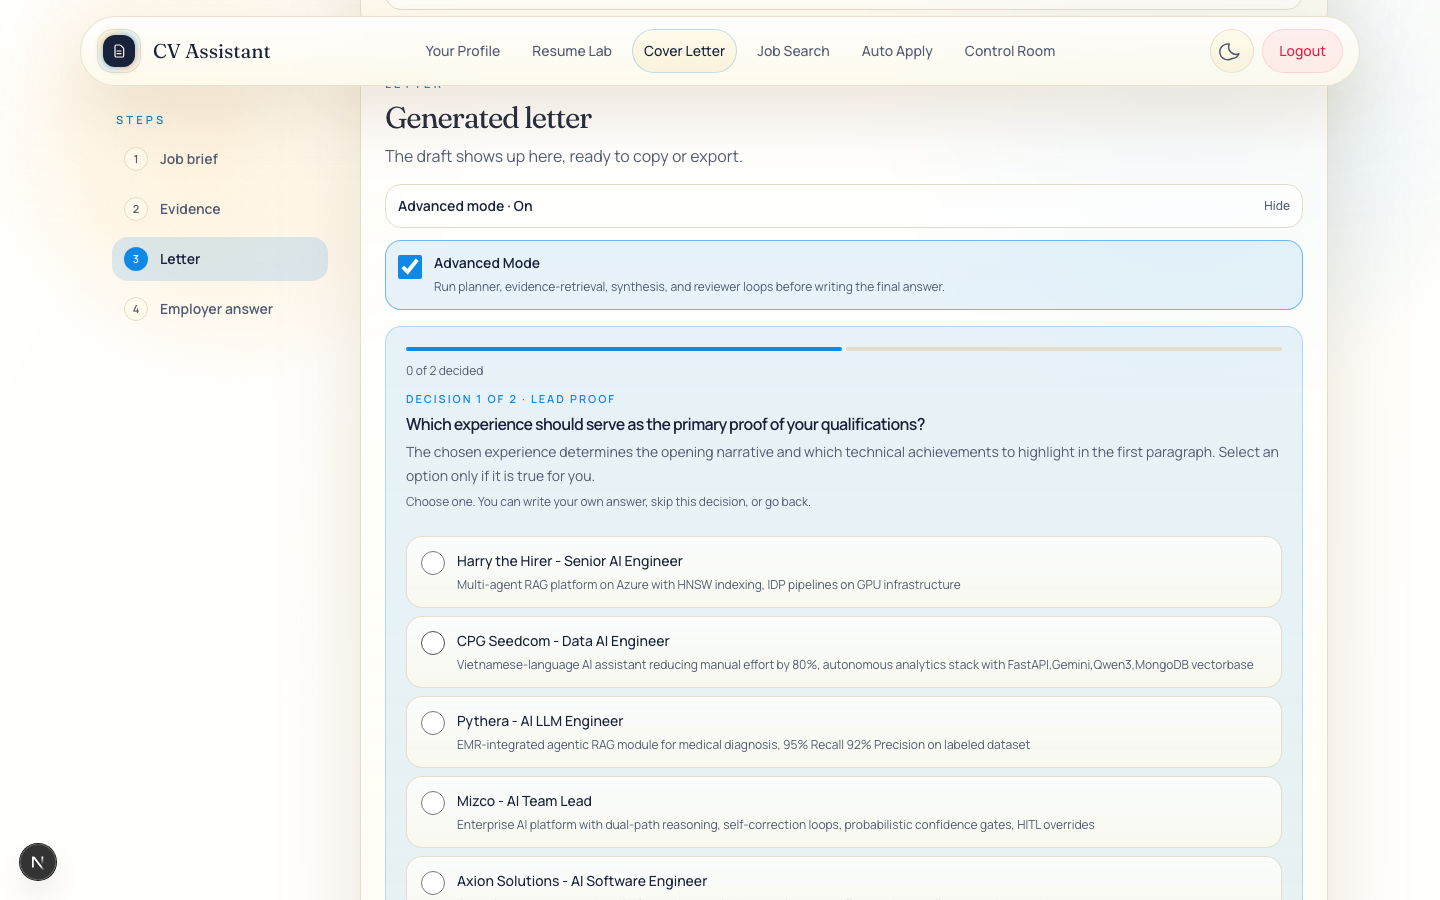
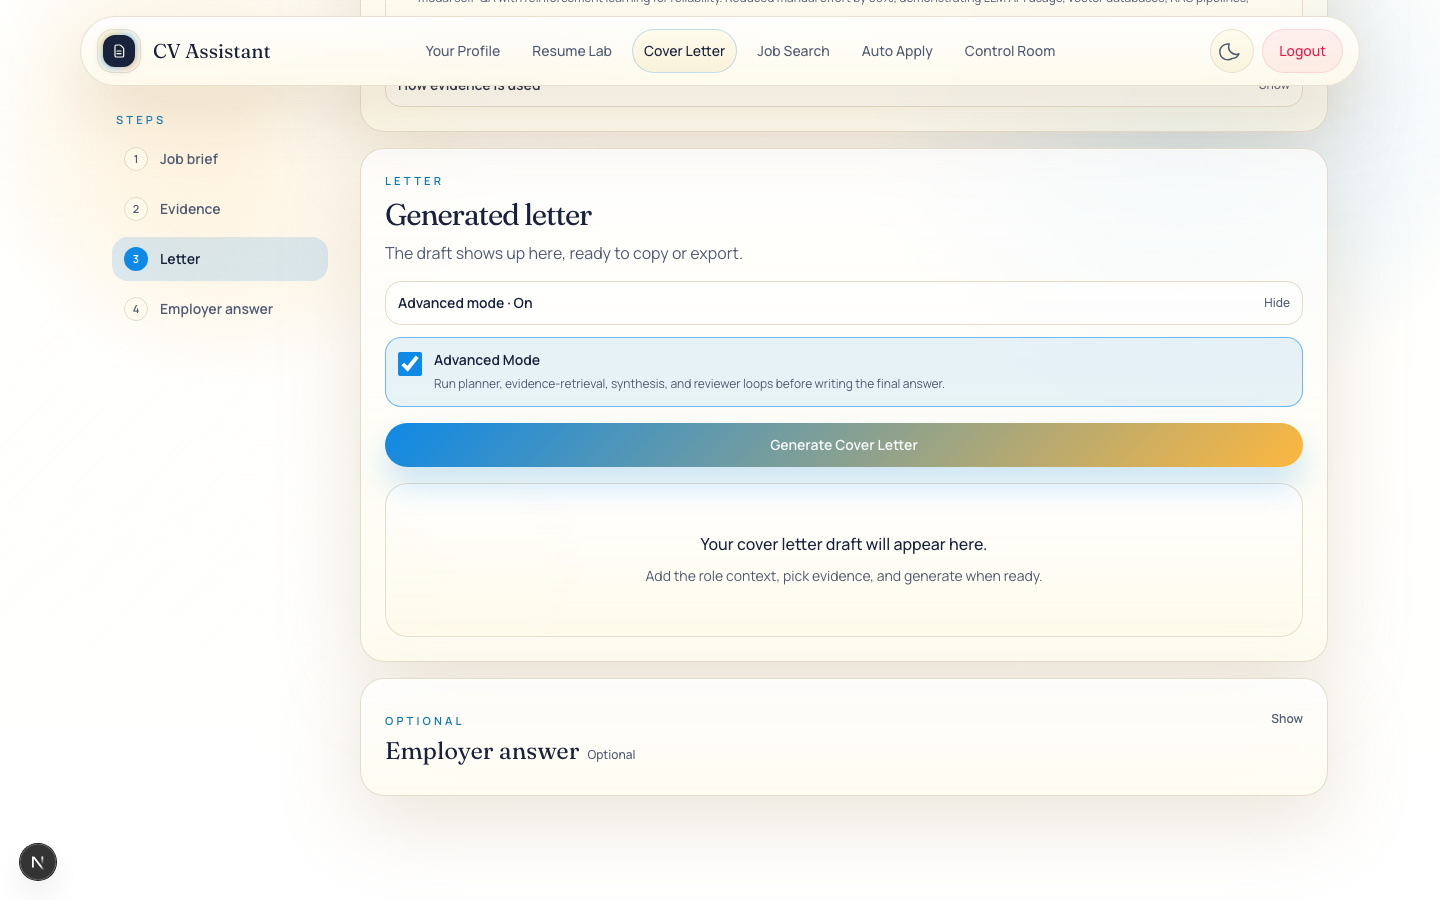
Record further live runs: eval rerun, Advanced Mode failure, prepare stop
Adds the Control Room specialist workflow result, the second eval run
(3 of 3 passed after 1 of 3 earlier, so results vary between runs), the
Advanced Mode run that returned 504 without producing a letter, and a
two-application Auto Apply prepare run that stopped early and could not
be resumed from the page. Failed attempts are recorded as failures.

diff --git a/cv-assistant/docs/verification-run.md b/cv-assistant/docs/verification-run.md
@@ -24,14 +24,22 @@ This page records what was actually run against the live app and the eval suite 
 | Cover letter: evidence | Job description entered, AI Coaching run | Pass. Six evidence items ranked. |
 | Cover letter: letter | Three clarification decisions answered, letter generated | Pass. `clarifications` 200, `cover-letter` 200. The letter rendered. |
 | Cover letter: PDF | Export PDF | Pass. `POST /api/generate/cover-letter/pdf` returned 200 with `application/pdf`, filename `<company>-cover-letter.pdf`, about 21 KB. The file opens and its text extracts. |
-| Cover letter: Advanced Mode | Not run | Not exercised (it uses more model calls and was not needed to verify the flow) |
+| Cover letter: Advanced Mode | Run twice. Run 1: two decision questions were shown and not answered, so no letter was produced. Run 2: both decisions answered, then `POST /api/generate/cover-letter` returned **504** after about four minutes. | **Fail.** The letter was not generated. The draft area was empty afterwards (see the screenshot below). |
 | Job Search: live run | Title, location and platforms set, Search run to completion, results panel read | Partial. See the Job Search findings below. |
 | Auto Apply: read-only | Brief, Matches, Review and Apply steps viewed on the existing account (96 ranked roles, 10 prepared) | Pass for viewing. Nothing approved, edited or submitted. |
-| Auto Apply: prepare | Not run | The prepare step would overwrite or add to the existing applications on this account, so it was not run. The behaviour is documented from code. |
+| Auto Apply: prepare | A two-application prepare run was started from the Brief step (`PATCH` then `POST .../run`, both accepted). The run then stopped early. The page shows "The last run stopped early. Press Prepare to continue where it left off." A resume attempt found no Prepare button. | **Not verified. The run did not complete.** The cause is not known. The account still shows 4 ready and 0 applied, so no new applications were prepared. |
 | Control Room: overview and lead | Overview, one lead detail opened | Pass for viewing. The specialist workflow was not run. |
 | Control Room: specialist workflow | Run once on one lead (`POST /api/control-room/leads/<id>/orchestrate`, 200 in about 5 s) | Pass with a caveat. The lead ended `scored`, fit 43, recommendation `skip`, `analysisSource: fallback`, `model: heuristic`. The LLM strategist did not produce the result and the response does not record why. The lead is a Talent.com record whose title is "Show more" and whose company is empty, so the result is not meaningful. Each run appends events and an evaluation to the lead. |
 | Promptfoo cover-letter eval | `npm run eval:letters`, 3 cases, live model calls, run twice | **Run 1: 1 of 3 passed. Run 2: 3 of 3 passed.** The same inputs gave different outcomes, so the eval is not stable. See below. |
 | Live browser scripts | Not run | They fill real employer forms (Greenhouse, Ashby and Lever) with name and contact details. That needs explicit permission from the user first. Not requested yet. |
+
+Evidence screenshots from these two attempts:
+
+![Auto Apply after the prepare run stopped early](../../imgsrc/auto-apply/prepare-resumed.png)
+*The Review step after the run stopped early. The status line says the last run stopped and asks for Prepare to be pressed again.*
+
+![Advanced Mode draft area after the 504](../../imgsrc/generate/advanced-result.png)
+*The letter area after the Advanced Mode request returned 504. No draft was produced.*
 
 ## Job Search findings (live run)
 
